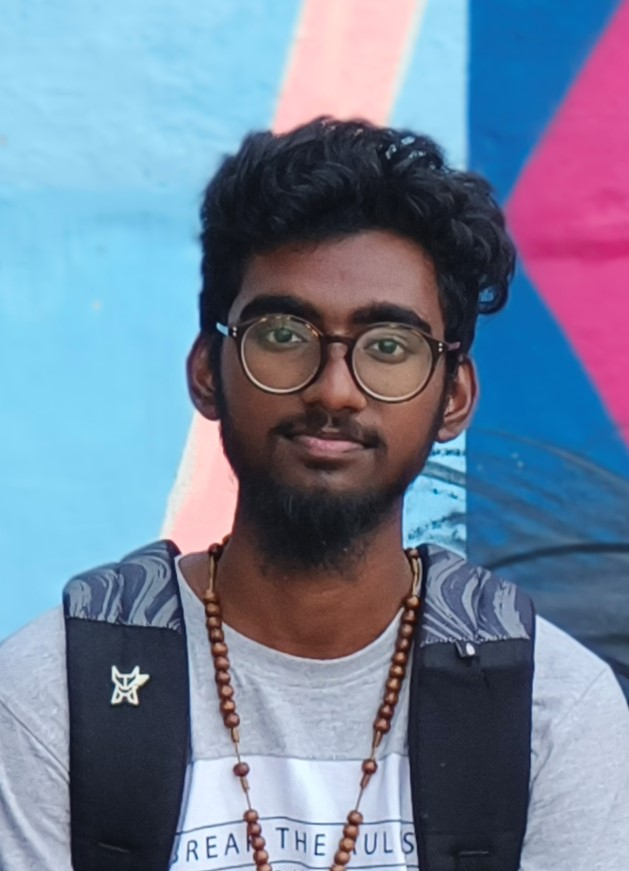
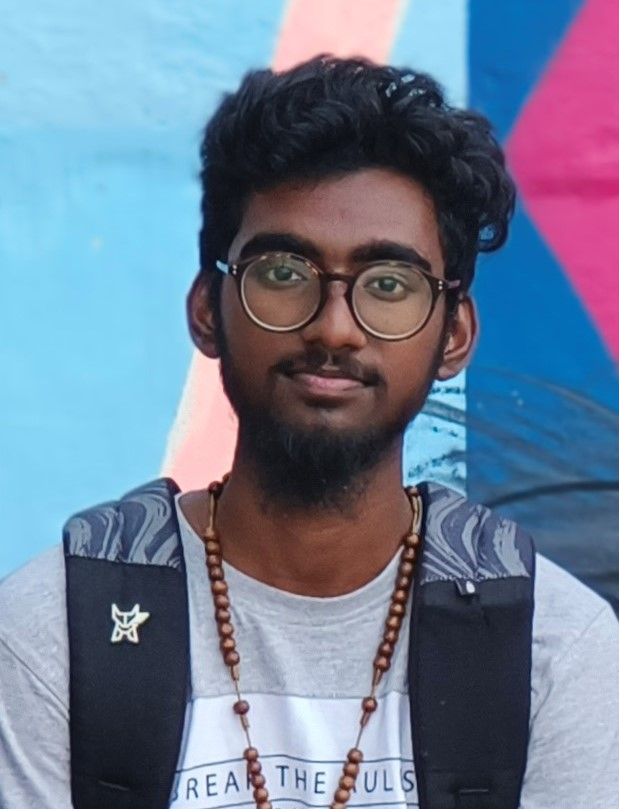
updated

diff --git a/online/Impact/internship.html b/online/Impact/internship.html
@@ -22,6 +22,7 @@
   <link href="assets/vendor/bootstrap/css/bootstrap.min.css" rel="stylesheet">
   <link href="assets/vendor/bootstrap-icons/bootstrap-icons.css" rel="stylesheet">
   <link href="assets/vendor/aos/aos.css" rel="stylesheet">
+
   <link href="assets/vendor/glightbox/css/glightbox.min.css" rel="stylesheet">
   <link href="assets/vendor/swiper/swiper-bundle.min.css" rel="stylesheet">
 
@@ -117,7 +118,7 @@
         <div class="container">
           <ol>
             <li><a href="index.html">Home</a></li>
-            <li>Blog Details</li>
+            <li>Internship Details</li>
           </ol>
         </div>
       </nav>
@@ -134,7 +135,7 @@
             <article class="blog-details">
 
               <div class="post-img">
-                <img src="assets/img/blog/blog-1.jpg" alt="" class="img-fluid">
+                <img src="assets/img/blog/blog-recent-4.jpg" alt="" class="img-fluid">
               </div>
 
               <h2 class="title">Dolorum optio tempore voluptas dignissimos cumque fuga qui quibusdam quia</h2>
@@ -175,7 +176,7 @@
                   Quia et suscipit non sequi. Maxime sed odit. Beatae nesciunt nesciunt accusamus quia aut ratione aspernatur dolor. Sint harum eveniet dicta exercitationem minima. Exercitationem omnis asperiores natus aperiam dolor consequatur id ex sed. Quibusdam rerum dolores sint consequatur quidem ea.
                   Beatae minima sunt libero soluta sapiente in rem assumenda. Et qui odit voluptatem. Cum quibusdam voluptatem voluptatem accusamus mollitia aut atque aut.
                 </p>
-                <img src="assets/img/blog/blog-inside-post.jpg" class="img-fluid" alt="">
+                <img src="assets/img/blog/blog-recent-5.jpg" class="img-fluid" alt="">
 
                 <h3>Ut repellat blanditiis est dolore sunt dolorum quae.</h3>
                 <p>

diff --git a/online/Impact/index.html b/online/Impact/index.html
@@ -379,7 +379,7 @@
 
           <div class="col-xl-3 col-md-6 d-flex" data-aos="fade-up" data-aos-delay="200">
             <div class="member">
-              <img src="assets/img/team/team-4.jpg" class="img-fluid" alt="">
+              <img src="assets/img/team/team-4.jpg" class="img-fluid" alt="" height="600" width="600">
               <h4>Kamalesh Kumar K</h4>
               <span>ECE PEC 2024</span>
               <div class="social">
@@ -393,7 +393,7 @@
 
           <div class="col-xl-3 col-md-6 d-flex" data-aos="fade-up" data-aos-delay="200">
             <div class="member">
-              <img src="assets/img/WhatsApp Image 2022-08-07 at 1.49.36 PM.jpeg" class="img-fluid" alt="">
+              <img src="assets/img/team/team-2.jpg" class="img-fluid" alt="" height="600" width="600">
               <h4>Keerthivasan R</h4>
               <span>ECE PEC 2024</span>
               <div class="social">
